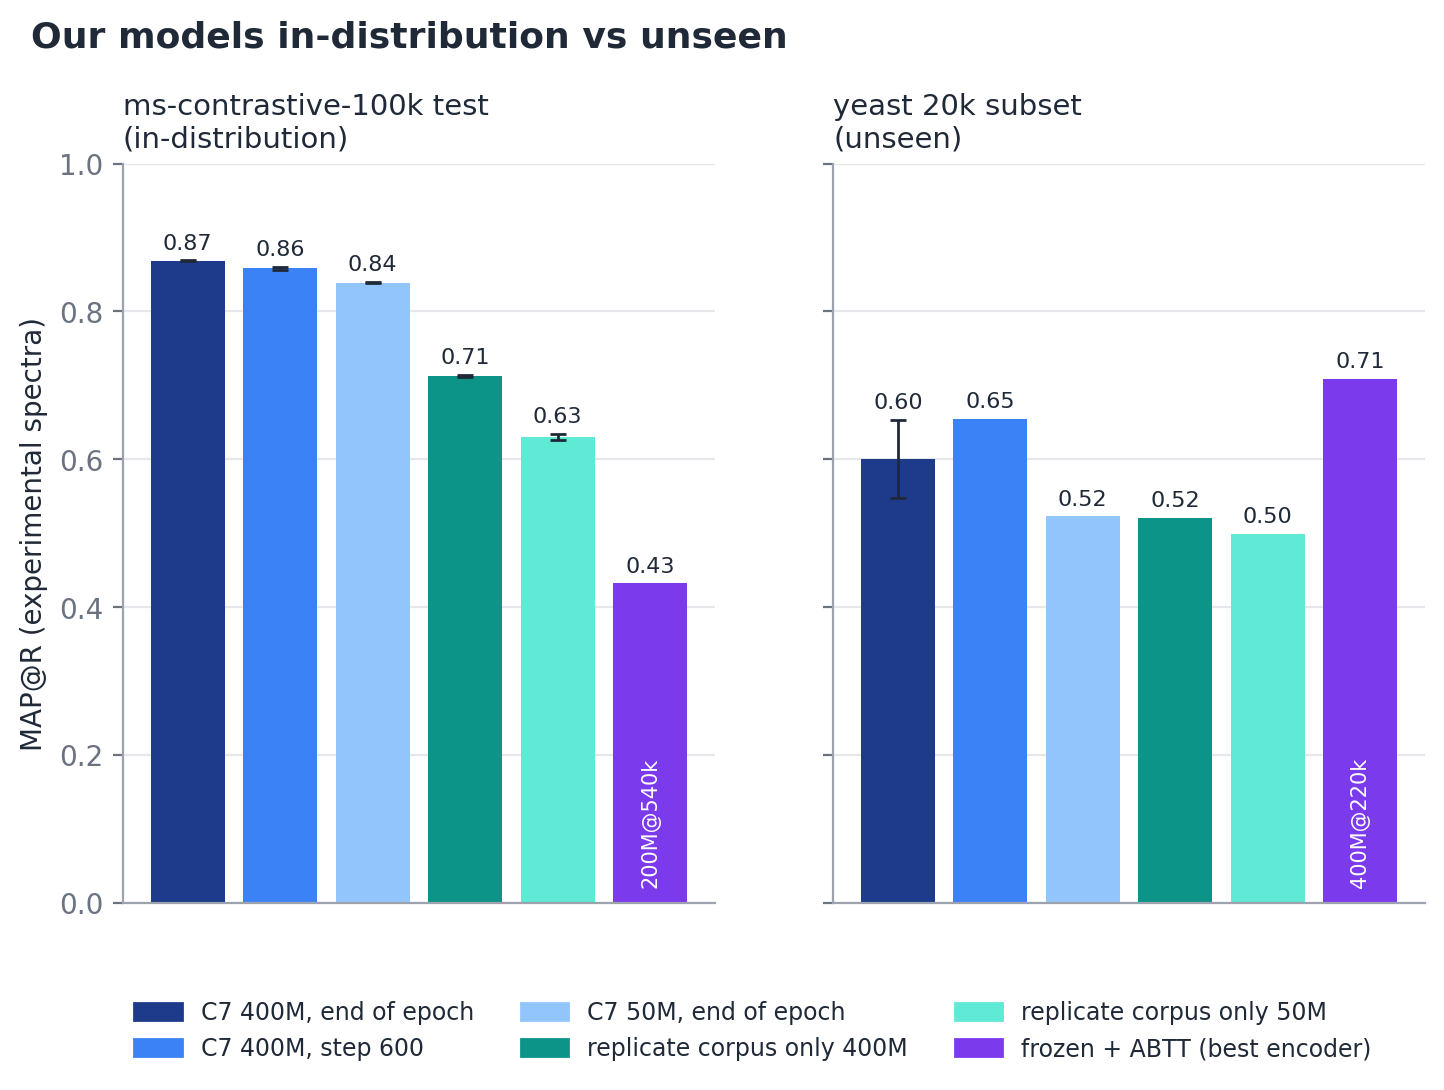
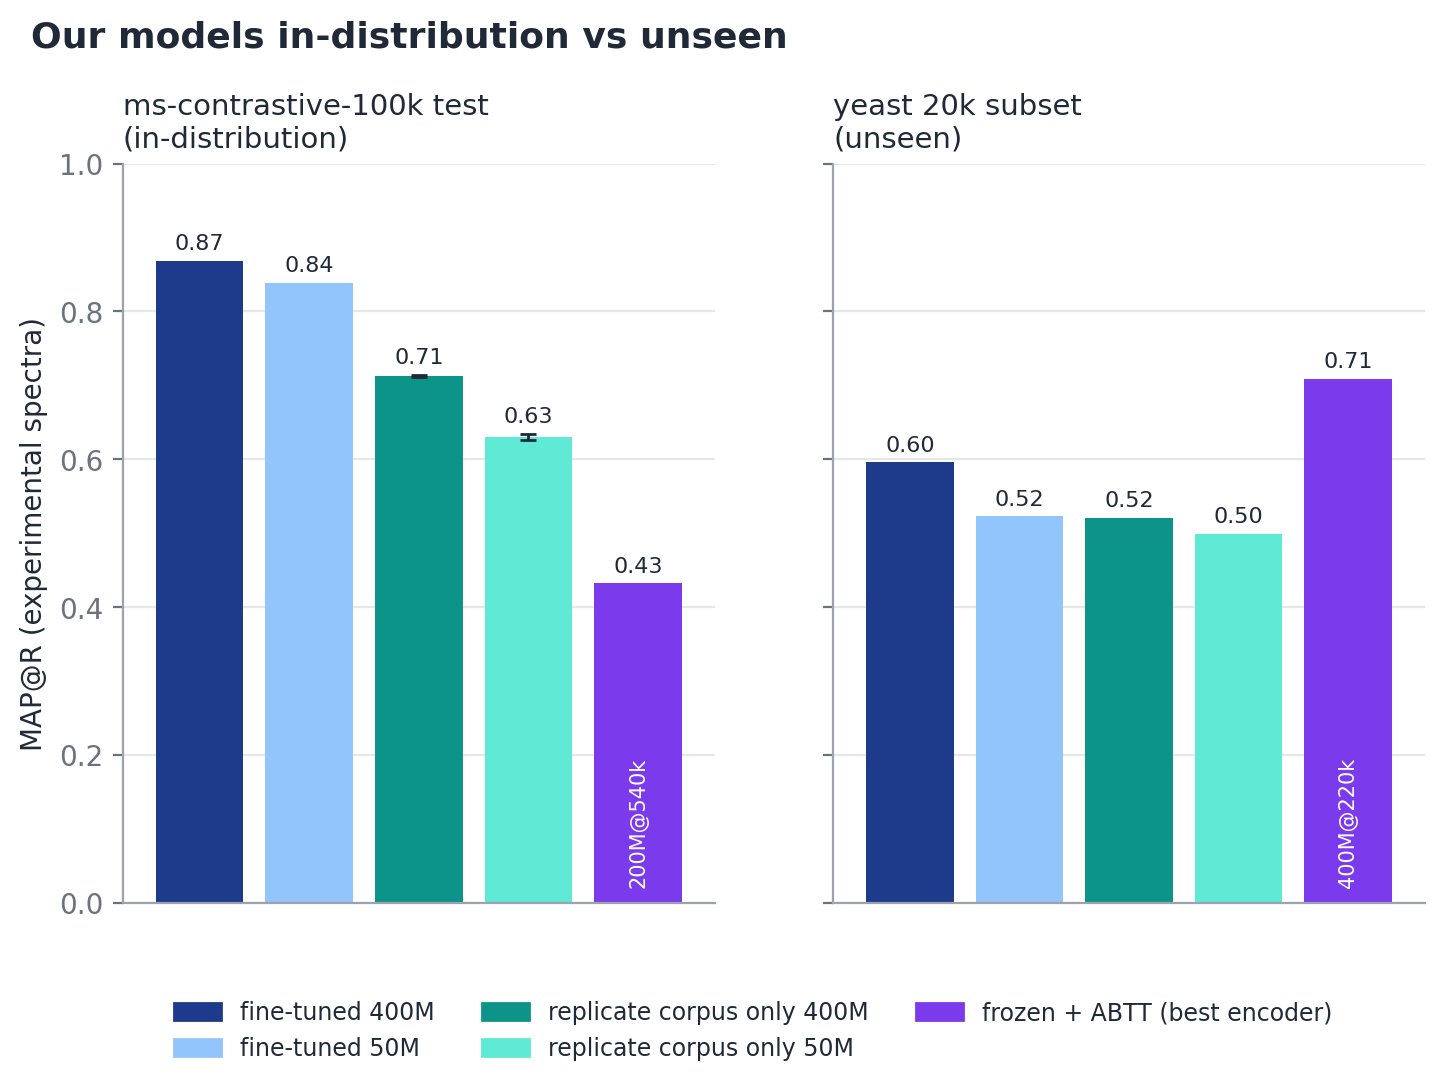
C_transfer: fine-tuned 400M/50M = end-of-epoch seed chosen on validation (400M seed 0, 50M seed 1); drop step-600 bar
Claude-Session: https://claude.ai/code/session_01ATgkXx1oRRqvzB3G8wYeta

diff --git a/sweeps/package_contrastive.py b/sweeps/package_contrastive.py
@@ -97,10 +97,15 @@ def load_rows():
     return rows
 
 
-def pick(rows, bench, method, scale="", ck="", stage=""):
+def pick(rows, bench, method, scale="", ck="", stage="", seed=None):
     return [r["map_at_r"] for r in rows if r["benchmark"] == bench and r["method"] == method
             and (not scale or r["scale"] == scale) and (not ck or r["pretrain_ckpt"] == ck)
-            and (not stage or r["stage"] == stage)]
+            and (not stage or r["stage"] == stage) and (seed is None or r["seed"] == seed)]
+
+
+# End-of-epoch seed chosen on the ms-contrastive-100k VALIDATION split (grouped100k-validation MAP@R:
+# 400M seeds 0.8639 / 0.8629 / 0.8634 -> seed 0; 50M 0.8314 / 0.8357 / 0.8342 -> seed 1).
+BEST_SEED = {"400m": 0, "50m": 1}
 
 
 def msd(v):
@@ -225,9 +230,8 @@ def fig_transfer(rows, zs, panels=None, baselines=True, out="C_transfer.png",
             return [], ""
         best = max(r, key=lambda t: t["abtt_best"])
         return [best["abtt_best"]], best["encoder"].upper().replace("K", "k")
-    series = [("C7 400M, end of epoch", "#1e3a8a", lambda b: (pick(rows, b, c7, "400m", stage="final"), "")),
-              ("C7 400M, step 600", "#3b82f6", lambda b: (pick(rows, b, c7, "400m", stage="s600"), "")),
-              ("C7 50M, end of epoch", "#93c5fd", lambda b: (pick(rows, b, c7, "50m", stage="final"), "")),
+    series = [("fine-tuned 400M", "#1e3a8a", lambda b: (pick(rows, b, c7, "400m", stage="final", seed=BEST_SEED["400m"]), "")),
+              ("fine-tuned 50M", "#93c5fd", lambda b: (pick(rows, b, c7, "50m", stage="final", seed=BEST_SEED["50m"]), "")),
               ("replicate corpus only 400M", "#0d9488", lambda b: (rep(b, "400m"), "")),
               ("replicate corpus only 50M", "#5eead4", lambda b: (rep(b, "50m"), "")),
               ("frozen + ABTT (best encoder)", "#7c3aed", frozen),
@@ -322,10 +326,10 @@ C7 = "C7 (replicate corpus -> ms-contrastive-100k)"
 PLOT_KEYS = ["benchmark", "model", "scale", "pretrain_ckpt", "finetune_stage", "seed", "map_at_r", "hit_at_1", "note"]
 
 
-def sel(rows, bench, method, scale="", ck="", stage=""):
+def sel(rows, bench, method, scale="", ck="", stage="", seed=None):
     return [r for r in rows if r["benchmark"] == bench and r["method"] == method
             and (not scale or r["scale"] == scale) and (not ck or r["pretrain_ckpt"] == ck)
-            and (not stage or r["stage"] == stage)]
+            and (not stage or r["stage"] == stage) and (seed is None or r["seed"] == seed)]
 
 
 def as_plot_row(r, model, note=""):
@@ -345,9 +349,8 @@ def export_plot_data(rows, zs, ab):
     # C_transfer_ours: our models on the in-distribution test and on yeast 20k
     out = []
     for b in ("ms-contrastive-100k", "yeast-20k"):
-        for model, rs in (("C7 400M, end of epoch", sel(rows, b, C7, "400m", stage="final")),
-                          ("C7 400M, step 600", sel(rows, b, C7, "400m", stage="s600")),
-                          ("C7 50M, end of epoch", sel(rows, b, C7, "50m", stage="final")),
+        for model, rs in (("fine-tuned 400M", sel(rows, b, C7, "400m", stage="final", seed=BEST_SEED["400m"])),
+                          ("fine-tuned 50M", sel(rows, b, C7, "50m", stage="final", seed=BEST_SEED["50m"])),
                           ("replicate corpus only 400M", sel(rows, b, "replicate corpus only (12 ep)", "400m")
                            or sel(rows, b, "replicate corpus only (24 ep)", "400m")),
                           ("replicate corpus only 50M", sel(rows, b, "replicate corpus only (12 ep)", "50m")
